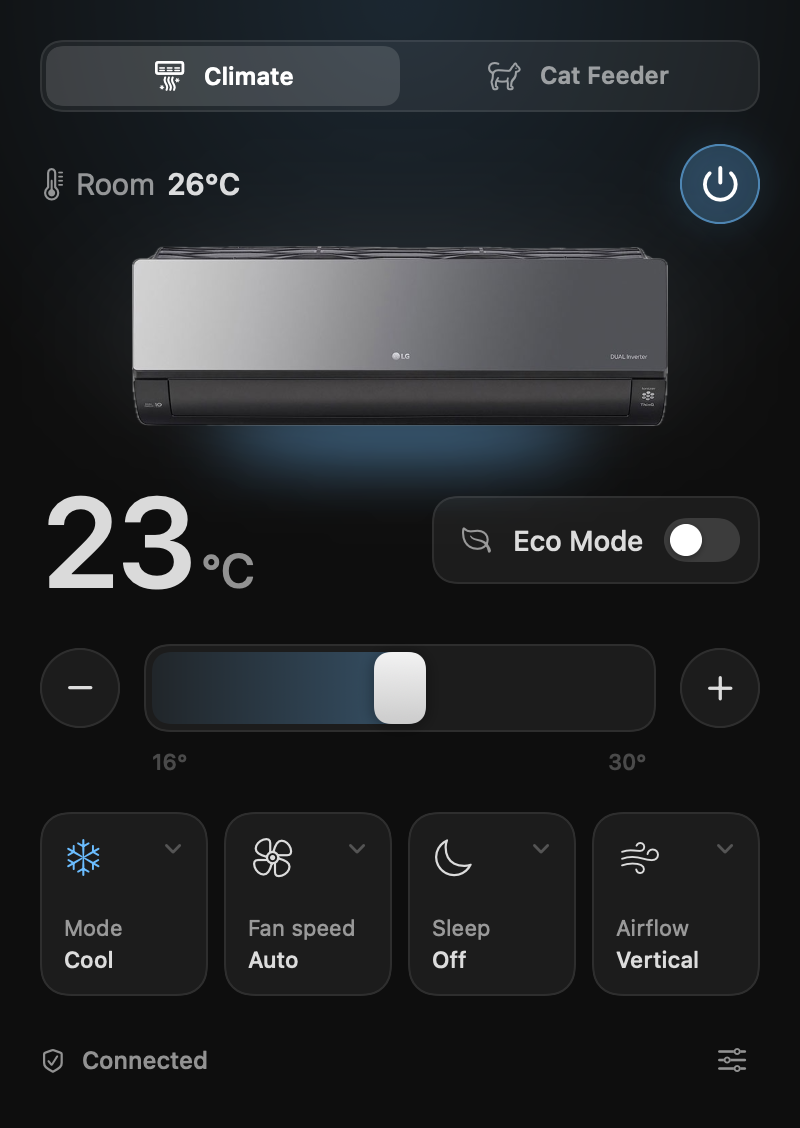
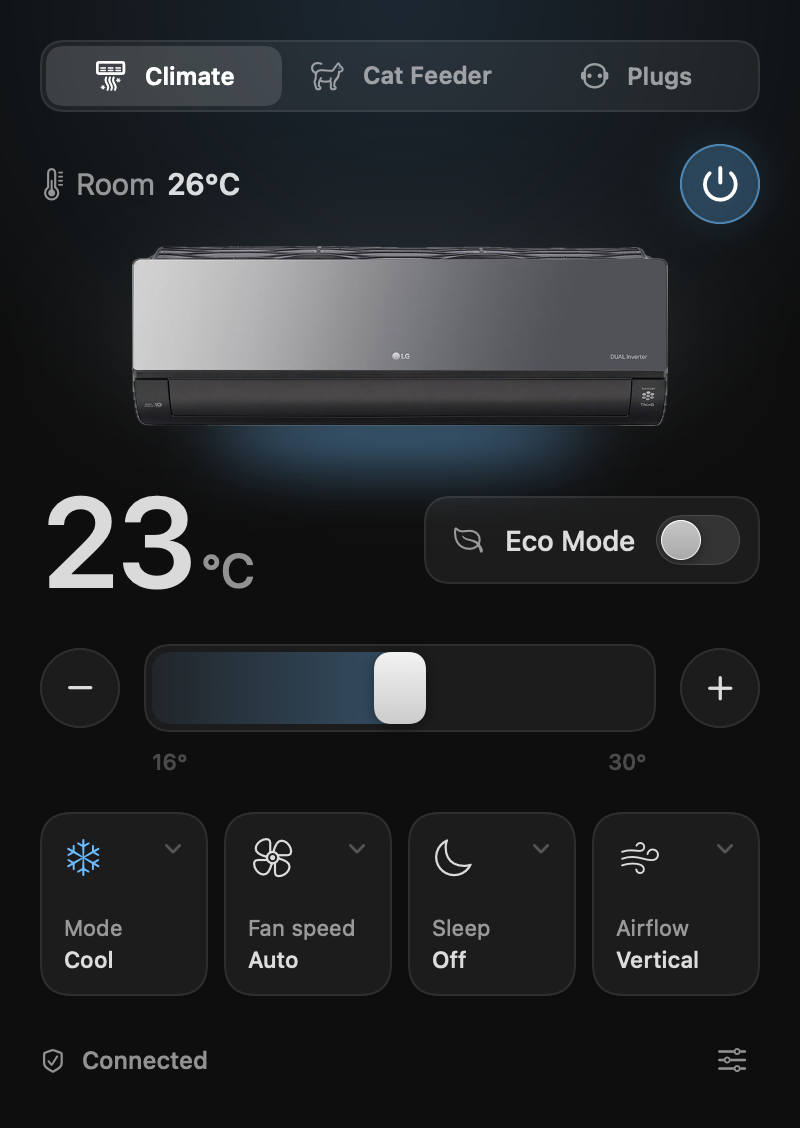
Replace AppKit's switch with Domo's own
AppKit's mini switch looked small and grey in the dark panel. DomoSwitch
is drawn to fit it: green track with a soft glow when on, a white knob
that stretches toward its travel the moment it's pressed and springs
across (0.28s, slight bounce), a light haptic tick on change, and a
cross-fade instead of the slide under Reduce Motion. Outlets and Eco Mode
both use it; device photos are narrowed so they clear it.

diff --git a/Sources/Domo/Shared/DomoSwitch.swift b/Sources/Domo/Shared/DomoSwitch.swift
@@ -1,0 +1,113 @@
+import AppKit
+import SwiftUI
+
+/// Domo's own switch, drawn to sit in a dark panel instead of AppKit's
+/// small grey one.
+///
+/// Feel: the knob stretches toward its travel the moment it's pressed
+/// (feedback on press, not release), then springs across with a little
+/// give. A light haptic tick lands on the same frame as the change.
+/// Reduce Motion swaps the slide for a short cross-fade.
+struct DomoSwitch: View {
+    enum Style: CaseIterable {
+        /// Familiar green, as on iPhone.
+        case green
+        /// White when on, quiet when off; no color competing with the icons.
+        case mono
+        /// Cool blue with a soft glow, matching the AC's cooling tint.
+        case glow
+    }
+
+    let label: String
+    let isOn: Bool
+    var style: Style = .defaultStyle
+    let action: () -> Void
+
+    @State private var isPressed = false
+    @Environment(\.accessibilityReduceMotion) private var reduceMotion
+
+    private let size = CGSize(width: 42, height: 25)
+    private let inset: CGFloat = 2.5
+
+    var body: some View {
+        let knob = size.height - inset * 2
+
+        ZStack(alignment: isOn ? .trailing : .leading) {
+            Capsule()
+                .fill(track)
+                .overlay { Capsule().strokeBorder(trackEdge, lineWidth: 0.5) }
+                .shadow(color: glow, radius: 8)
+
+            Capsule()
+                .fill(knobFill)
+                .overlay { Capsule().strokeBorder(.white.opacity(0.25), lineWidth: 0.5).blendMode(.plusLighter) }
+                .frame(width: knob + (isPressed ? 6 : 0), height: knob)
+                .shadow(color: .black.opacity(0.35), radius: 2.5, y: 1.5)
+                .padding(inset)
+        }
+        .frame(width: size.width, height: size.height)
+        .contentShape(Capsule())
+        .gesture(
+            DragGesture(minimumDistance: 0)
+                .onChanged { _ in if !isPressed { isPressed = true } }
+                .onEnded { value in
+                    isPressed = false
+                    // Releasing outside the switch cancels, as with any button.
+                    if CGRect(origin: .zero, size: size).insetBy(dx: -8, dy: -8).contains(value.location) { flip() }
+                }
+        )
+        .animation(reduceMotion ? Theme.ease(0.15) : .spring(duration: 0.28, bounce: 0.12), value: isOn)
+        .animation(Theme.easeOut(0.12), value: isPressed)
+        .animation(Theme.ease(0.2), value: style)
+        .accessibilityElement()
+        .accessibilityLabel(label)
+        .accessibilityValue(isOn ? "On" : "Off")
+        .accessibilityAddTraits(.isToggle)
+        .accessibilityAction { flip() }
+    }
+
+    private func flip() {
+        NSHapticFeedbackManager.defaultPerformer.perform(.generic, performanceTime: .now)
+        action()
+    }
+
+    private var track: AnyShapeStyle {
+        switch (style, isOn) {
+        case (.green, true):
+            AnyShapeStyle(LinearGradient(colors: [Color(red: 0.25, green: 0.86, blue: 0.42), Color(red: 0.16, green: 0.74, blue: 0.33)],
+                                         startPoint: .top, endPoint: .bottom))
+        case (.mono, true):
+            AnyShapeStyle(Color(white: 0.93))
+        case (.glow, true):
+            AnyShapeStyle(LinearGradient(colors: [Color(red: 0.45, green: 0.77, blue: 1.0), Color(red: 0.25, green: 0.56, blue: 0.98)],
+                                         startPoint: .top, endPoint: .bottom))
+        case (_, false):
+            AnyShapeStyle(Color.white.opacity(0.1))
+        }
+    }
+
+    private var trackEdge: Color {
+        isOn ? .white.opacity(style == .mono ? 0 : 0.18) : .white.opacity(0.12)
+    }
+
+    private var knobFill: AnyShapeStyle {
+        switch (style, isOn) {
+        case (.mono, true): AnyShapeStyle(Color(white: 0.1))
+        case (_, true): AnyShapeStyle(LinearGradient(colors: [.white, Color(white: 0.92)], startPoint: .top, endPoint: .bottom))
+        case (_, false): AnyShapeStyle(LinearGradient(colors: [Color(white: 0.78), Color(white: 0.66)], startPoint: .top, endPoint: .bottom))
+        }
+    }
+
+    private var glow: Color {
+        guard isOn else { return .clear }
+        return switch style {
+        case .glow: Color(red: 0.35, green: 0.65, blue: 1.0).opacity(0.45)
+        case .green: Color(red: 0.2, green: 0.8, blue: 0.4).opacity(0.25)
+        case .mono: .clear
+        }
+    }
+}
+
+extension DomoSwitch.Style {
+    static let defaultStyle: Self = .green
+}

diff --git a/Sources/Domo/Accessories/Plugs/PlugsPanel.swift b/Sources/Domo/Accessories/Plugs/PlugsPanel.swift
@@ -117,8 +117,7 @@ private struct StripSection: View {
     }
 }
 
-/// One outlet: the device's picture, its name, and the platform's own
-/// switch (macOS draws its switch here, iOS would draw its own). The tile
+/// One outlet: the device's picture, its name, and Domo's switch. The tile
 /// stays neutral; state reads from the switch and the picture, which is in
 /// color while powered and grey while off. Clicking anywhere on the tile
 /// flips it too, so the target is the whole tile, not just the switch.
@@ -157,10 +156,7 @@ private struct OutletTile: View {
         .buttonStyle(PressableStyle(scale: 0.97))
         .accessibilityHidden(true) // the switch below is the accessible control
         .overlay(alignment: .topTrailing) {
-            Toggle(name, isOn: Binding(get: { outlet.isOn }, set: { _ in store.toggle(outlet, in: strip) }))
-                .toggleStyle(.switch)
-                .controlSize(.mini)
-                .labelsHidden()
+            DomoSwitch(label: name, isOn: outlet.isOn) { store.toggle(outlet, in: strip) }
                 .padding(10)
                 .help("Turn \(name) \(outlet.isOn ? "off" : "on")")
         }
@@ -179,11 +175,12 @@ private struct OutletTile: View {
                 .resizable()
                 .interpolation(.high)
                 .aspectRatio(contentMode: .fit)
-                .frame(maxWidth: 62, maxHeight: 36, alignment: .leading)
+                // Narrow enough to clear the switch in the top-right corner.
+                .frame(maxWidth: 50, maxHeight: 36, alignment: .leading)
                 // A soft light behind it: real devices are often black.
                 .background {
                     RadialGradient(colors: [.white.opacity(0.2), .clear], center: .center, startRadius: 2, endRadius: 36)
-                        .frame(width: 78, height: 48)
+                        .frame(width: 66, height: 48)
                 }
         } else if let image = icon.image {
             Image(nsImage: image)

diff --git a/Sources/Domo/Shared/Controls.swift b/Sources/Domo/Shared/Controls.swift
@@ -48,9 +48,7 @@ struct StepButton: View {
     }
 }
 
-/// A labelled on/off chip, e.g. Eco Mode. The switch is the platform's own
-/// (macOS draws its switch, iOS would draw its own); the whole chip is the
-/// click target.
+/// A labelled on/off chip, e.g. Eco Mode. The whole chip is the click target.
 struct PillToggle: View {
     let title: String
     /// Outline symbol; the filled variant is used while on.
@@ -72,7 +70,7 @@ struct PillToggle: View {
                     .lineLimit(1)
                     .fixedSize()
                 // Room for the switch, which sits on top so it gets its own clicks.
-                Color.clear.frame(width: 34, height: 1)
+                Color.clear.frame(width: 42, height: 1)
             }
             .padding(.leading, 14)
             .padding(.trailing, 10)
@@ -83,10 +81,7 @@ struct PillToggle: View {
         .buttonStyle(PressableStyle(scale: 0.97))
         .accessibilityHidden(true)
         .overlay(alignment: .trailing) {
-            Toggle(title, isOn: Binding(get: { isOn }, set: { _ in action() }))
-                .toggleStyle(.switch)
-                .controlSize(.small)
-                .labelsHidden()
+            DomoSwitch(label: title, isOn: isOn, action: action)
                 .padding(.trailing, 10)
         }
         .animation(Theme.ease(0.15), value: isOn)

diff --git a/README.md b/README.md
@@ -46,8 +46,8 @@ Supports the `mmgg.feeder.fi1` model.
 
 ### Smart plugs
 
-- Every outlet of every Meross strip on your network, each with the
-  platform's own switch (the whole tile is clickable too)
+- Every outlet of every Meross strip on your network, each with its own
+  switch (the whole tile is clickable too)
 - Turn a whole strip on or off (off asks first: a router or charger may be
   plugged in)
 - Name strips and outlets with right-click → **Rename…**; names stay on
@@ -68,7 +68,8 @@ over the local API, so Domo doesn't show wattage.
 
 Deliberately quiet, following Emil Kowalski's animation rules: digits roll
 when a number changes, the AC's vent glows in the mode's color while it runs,
-kibble drops into the bowl when a feed is confirmed, buttons react on press,
+kibble drops into the bowl when a feed is confirmed, switches stretch when
+pressed and spring across, buttons react on press,
 and the tab indicator slides with a single clipped layer. With *Reduce
 Motion* on, movement gives way to simple fades.
 
